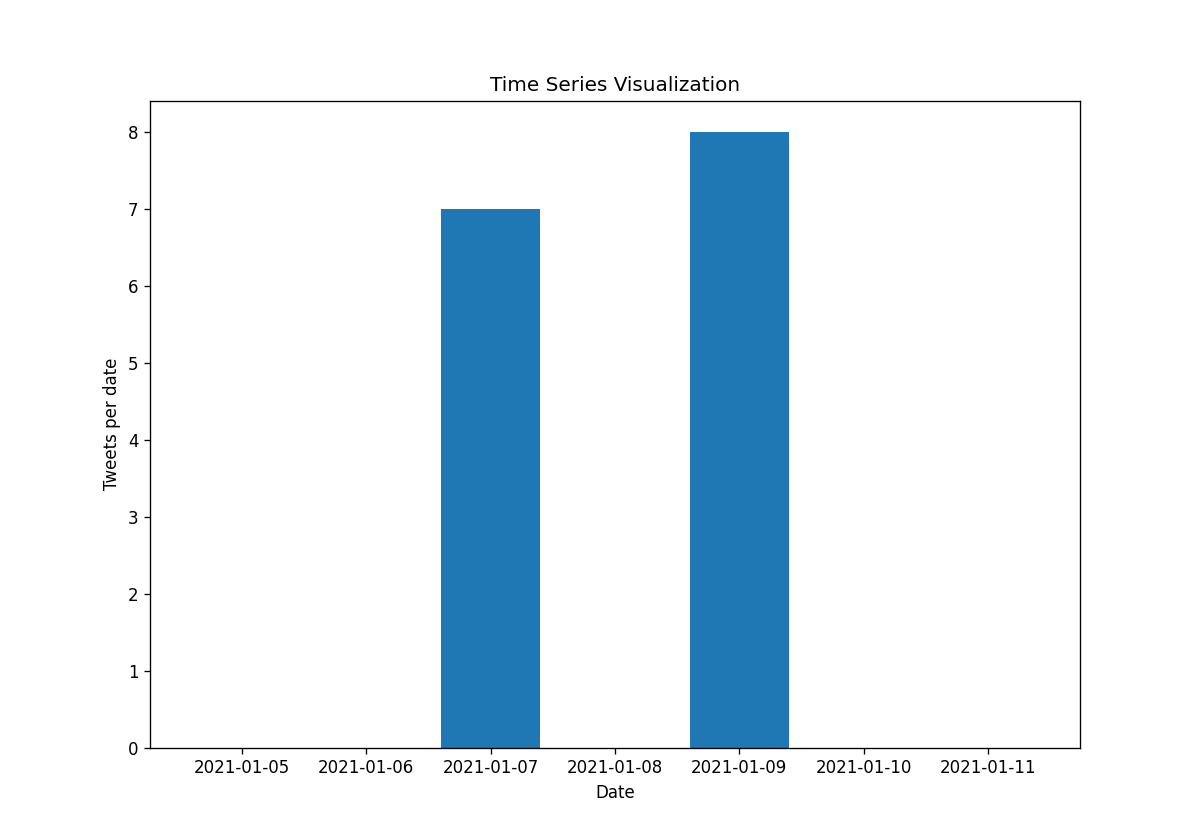
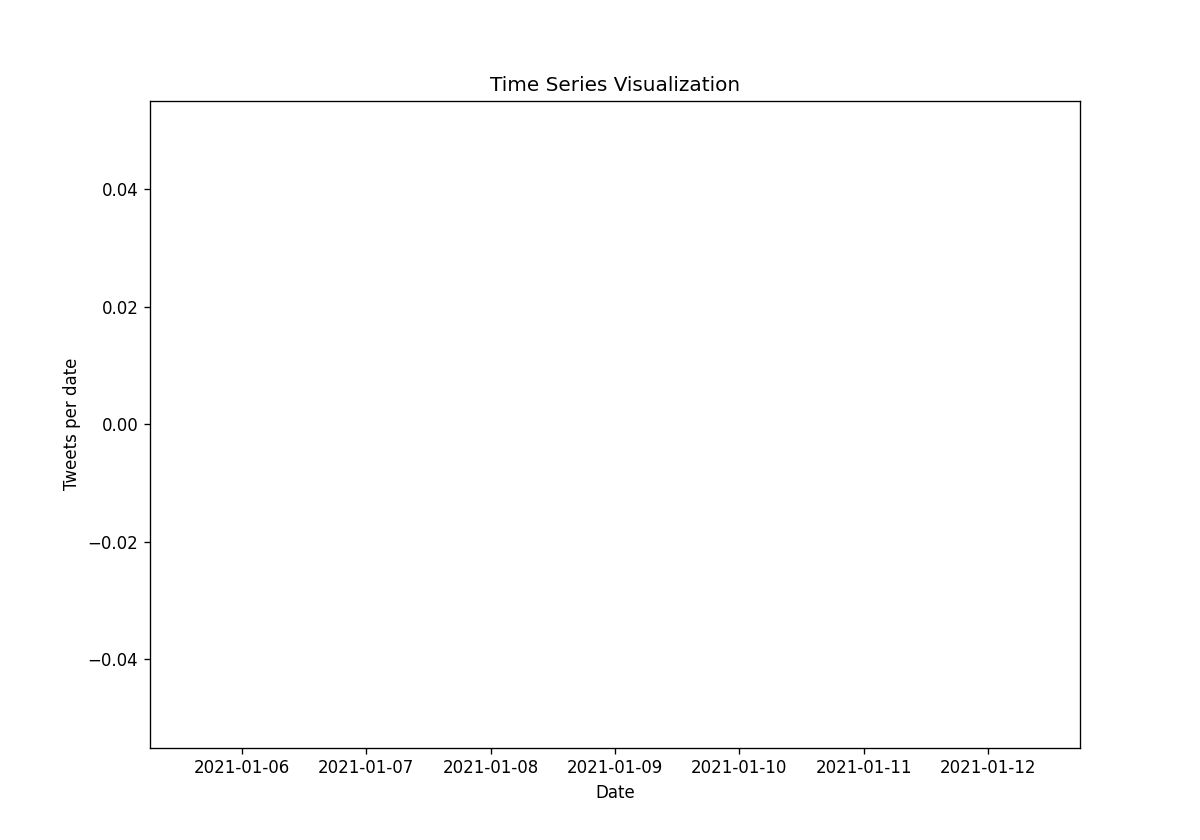
Add files via upload
All done. For now.

diff --git a/templates/home.html b/templates/home.html
@@ -90,11 +90,11 @@
         <div style="overflow-y: scroll; height:350px; background-color: black; border: 5px solid blue; border-radius: 10px; padding: 30px;">
             {% for tweet in all_tweets %}
                 <div style = "color: white; background-color: #007bff; border: 1px solid white; border-radius: 10px; padding: 30px;">
-                    <p style="white-space:pre-wrap">Date: {{ tweet.date_created }}</p>
-                    {% if tweet.location %}
-                        <p style="white-space:pre-wrap">Location: {{ tweet.location }}</p>
+                    <p style="white-space:pre-wrap">Date: {{ tweet['created_at'] }}</p>
+                    {% if tweet['location'] %}
+                        <p style="white-space:pre-wrap">Location: {{ tweet['location'] }}</p>
                     {% endif %}
-                    <p style="white-space:pre-wrap" font='bold'>{{ tweet.text }}</p>
+                    <p style="white-space:pre-wrap" font='bold'>{{ tweet['text'] }}</p>
                 </div>
                 <br>
         {% endfor %}

diff --git a/app.py b/app.py
@@ -23,22 +23,6 @@ import matplotlib
 matplotlib.use('Agg')
 
 app = Flask(__name__, static_url_path='/static')
-# Setting the connection to the database we will use
-app.config['SQLALCHEMY_DATABASE_URI'] = 'sqlite:///tweets.db'
-db2 = SQLAlchemy(app)
-
-class Tweets(db2.Model):
-    id = db2.Column(db2.Integer, primary_key=True)
-    date_created = db2.Column(db2.String(100), nullable=False)
-    text = db2.Column(db2.String(300), nullable=False)
-    location = db2.Column(db2.String(300), nullable=True)
-
-from app import db2
-db2.create_all()
-from app import Tweets
-
-
-app.config['SQLALCHEMY_TRACK_MODIFICATIONS'] = False
 
 
 for f in glob.glob('/static/*'):
@@ -47,8 +31,10 @@ for f in glob.glob('/static/*'):
 app.config['SEND_FILE_MAX_AGE_DEFAULT'] = 0
 
 # Link to Simon's database in mongodb atlas
-#MONGO_HOST = 'mongodb+srv://markusovich:Alexmom99@cluster0.enna3.mongodb.net/twitterdb?retryWrites=true&w=majority'
+MONGO_HOST = 'mongodb+srv://markusovich:Alexmom99@cluster0.enna3.mongodb.net/twitterdb?retryWrites=true&w=majority'
 # Created a database named "twitterdb" in custer0
+client = MongoClient(MONGO_HOST)
+db = client.twitterdb
 
 CONSUMER_KEY = "VqwMxvejCenz6f7agImTtyi0z"
 CONSUMER_SECRET = "JwEIf2ZIgmbEFOuXulpg8erDaYX1F0QTddlmR1UID8VS04hjAA"
@@ -100,9 +86,6 @@ def get_tweets(searchWord, locationName, date1, date2, count):
                        since=date1,
                        until=date2).items(count)
 
-    #client = MongoClient(MONGO_HOST)
-    #db = client.twitterdb
-
     flag = 0
     # Iterate and print tweets
     for tweet in tweets:
@@ -111,21 +94,21 @@ def get_tweets(searchWord, locationName, date1, date2, count):
             try:
                 if locationName in tweet._json['user']['location'] and flag == 0:
                     if model_prediction(tweet._json['text']):
-                        db2.session.add(Tweets(date_created=convertDate(
-                            tweet._json['created_at']), text=tweet._json['text'], location=tweet._json['user']['location']))
-                        db2.session.commit()
+                        print('pass')
+                        db.tweetDB.insert_one({ "created_at": convertDate(tweet._json['created_at']), "text": tweet._json['text'], "location": tweet._json['user']['location']})
+                        print('pass')
                         flag = 1
                 if locationName in tweet._json['place']['country'] and flag == 0:
                     if model_prediction(tweet._json['text']):
-                        db2.session.add(Tweets(date_created=convertDate(
-                            tweet._json['created_at']), text=tweet._json['text'], location=tweet._json['place']['country']))
-                        db2.session.commit()
+                        print('pass')
+                        db.tweetDB.insert_one({ "created_at": convertDate(tweet._json['created_at']), "text": tweet._json['text'], "location": tweet._json['place']['country']})
+                        print('pass')
                         flag = 1
                 if locationName in tweet._json['place']['name'] and flag == 0:
                     if model_prediction(tweet._json['text']):
-                        db2.session.add(Tweets(date_created=convertDate(
-                            tweet._json['created_at']), text=tweet._json['text'], location=tweet._json['place']['name']))
-                        db2.session.commit()
+                        print('pass')
+                        db.tweetDB.insert_one({ "created_at": convertDate(tweet._json['created_at']), "text": tweet._json['text'], "location": tweet._json['place']['name']})
+                        print('pass')
                         flag = 1
                 else:
                     pass
@@ -133,9 +116,7 @@ def get_tweets(searchWord, locationName, date1, date2, count):
                 pass
         else:
             if model_prediction(tweet._json['text']):
-                db2.session.add(Tweets(date_created=convertDate(
-                    tweet._json['created_at']), text=tweet._json['text']))
-                db2.session.commit()
+                db.tweetDB.insert_one({ "created_at": convertDate(tweet._json['created_at']), "text": tweet._json['text']})
 
             
 # prevent cached responses
@@ -152,10 +133,7 @@ if app.config["DEBUG"]:
 def home():
     if request.method == 'POST':
 
-        if os.path.getsize('tweets.db') > 0:
-            open("tweets.db", "w").close()
-
-        MONGO_HOST = 'mongodb+srv://markusovich:Alexmom99@cluster0.enna3.mongodb.net/twitterdb?retryWrites=true&w=majority'
+        db.tweetDB.remove({})
 
         disasterName = request.form['searchDisaster']
         locationName = request.form['searchLocation']
@@ -262,28 +240,24 @@ def home():
             p3.join()
             p4.join()
 
-        # createTimeSeries(Tweets.query.with_entities(Tweets.date_created))
         plt.rcParams.update({'figure.figsize': (10, 7), 'figure.dpi': 120})
 
         freq = {}
-        for item in Tweets.query.with_entities(Tweets.date_created):
-            item = str(item).replace(',)', '')
-            item = item.replace('(', '')
-            if (item in freq):
-                freq[item] += 1
+        for item in db.tweetDB.find( {} ):
+            item['created_at']
+            if (item['created_at'] in freq):
+                freq[item['created_at']] += 1
             else:
-                freq[item] = 1
+                freq[item['created_at']] = 1
 
         data = []
         done = []
-        for item in Tweets.query.with_entities(Tweets.date_created):
-            item = str(item).replace(',)', '')
-            item = item.replace('(', '')
+        for item in db.tweetDB.find( {} ):
             if item in done:
                 pass
             else:
-                data.append([item, freq[item]])
-                done.append(item)
+                data.append([item['created_at'], freq[item['created_at']]])
+                done.append(item['created_at'])
         df = pd.DataFrame(data, columns=['date', 'value'])
 
 
@@ -306,10 +280,8 @@ def home():
 
         plot_df(df, x=df['date'], y=df.value, title='Time Series Visualization')
 
-        all_tweets = Tweets.query.order_by(Tweets.date_created).all()
+        all_tweets = db.tweetDB.find( {} )
         tweetTitle = 'Tweets that may provide info to current disaster state'
-
-        db2.drop_all()
 
         return render_template('home.html', all_tweets=all_tweets, tweetTitle=tweetTitle)
     else:
